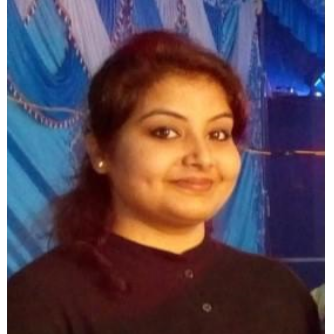
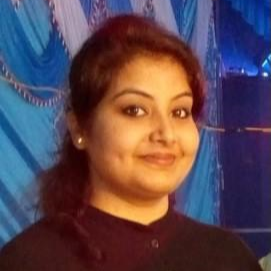
Updated: People page with new data

diff --git a/src/components/People.jsx b/src/components/People.jsx
@@ -2,11 +2,19 @@ import React, { useState } from "react";
 import { ChevronLeft, ChevronRight } from "react-feather";
 import piImg from '/images/People/Dr.-Rakesh-Kumar.png';
 
+// Lab Members Images
 import mem1 from '/images/People/Lab Members/Ms.-Minerva-Sharma.png';
 import mem2 from "/images/People/Lab Members/Mr.-Rajeshwer-S-Jamwal.png";
-import mem3 from "/images/People/Lab Members/Mr.-Bhawani-Sharma.png";
-import mem4 from "/images/People/Lab Members/Ms.-Pushpa-Oraon.png";
+import mem3 from "/images/People/Lab Members/Mr.-Bhawani-Sharma.jpeg";
+import mem4 from "/images/People/Lab Members/Ms.-Agamya.jpeg";
+import mem5 from "/images/People/Lab Members/Swati-Misri.jpeg";
+import mem6 from "/images/People/Lab Members/Ms.-Sheen-Bhat.jpeg";
+import mem7 from "/images/People/Lab Members/Ms.-Arushi-Gupta.jpeg";
+import mem8 from "/images/People/Lab Members/Mr.-Jagdeep-Singh.jpeg";
+import mem9 from "/images/People/Lab Members/Vitasta-Kuchroo.jpeg";
+import mem10 from "/images/People/Lab Members/Ms.-Pushpa-Oraon.jpeg";
 
+// Alumni Images
 import alm1 from "/images/People/Alumni/Dr. Ashna Nagpal.png";
 import alm2 from "/images/People/Alumni/Dr. Sonali Verma.png";
 import alm3 from "/images/People/Alumni/Dr. GR Bhat.png";
@@ -23,19 +31,106 @@ export function People() {
     const [isPiVisible, setIsPiVisible] = useState(false);
 
     const members = [
-        { name: "Ms. Minerva Sharma", image: mem1, labStatus: "Research Scholar", academicQualification: "Ph.D. Ongoing", description: "I am Minerva, a researcher with a strong academic background in Biotechnology, holding both graduate and postgraduate degrees in the field. Currently, I am pursuing a Ph.D. in Cancer Genetics, with my research focusing on the genetic mechanisms of ovarian cancer. My passion lies in understanding how these mechanisms drive cancer progression and finding ways to translate this knowledge into therapeutic advancements. Beyond my work, I am a nature lover who finds joy in traveling, exploring new places, and immersing myself in different cultures. I enjoy observing people and learning about their traditions, which inspires me and enriches my perspective on life. Balancing my academic pursuits with these personal interests keeps me grounded and fuels my curiosity.\n" },
-        { name: "Mr. Rajeshwer S Jamwal", image: mem2, labStatus: "Senior Research Fellow-CSIR", academicQualification: "Ph.D. Ongoing", description: "I completed my Bachelor’s in Biotechnology from University of Jammu and my Master’s in Science in Biotechnology, specializing in Genetics, from Shri Mata Vaishno Devi University, India. Currently, I am pursuing my Ph.D. at SMVDU as a Senior Research Fellow under CSIR, focusing on the role of DNA damage-associated genes in non-small cell lung cancer. My work combines advanced molecular biology techniques and bioinformatics to understand genetic predispositions and cancer mechanisms.\n Additionally, I have a deep passion for riding bikes and exploring new destinations, which not only fuels my adventurous spirit but also inspires my curiosity about the world around me. Whether it's navigating winding mountain trails or discovering hidden cultural gems, these experiences provide fresh perspectives that often influence my approach towards Life and  Research." },
-        { name: "Mr. Bhawani Sharma", image: mem3, labStatus: "Research Scholar", academicQualification: "Ph.D. Ongoing", description: "Driven by a curiosity for the complexities of human genetics, I have pursued a dedicated academic journey. After completing my schooling and undergraduate studies in Jammu and earning a master’s degree in Biotechnology from SMVDU, I am now engaged in PhD research at SMVDU. My work delves into the genetic basis of male infertility, focusing on Y chromosome microdeletions, mitochondrial alterations, and genetic mutations. By combining advanced genomic tools with community health initiatives, I aim to contribute to both scientific understanding and impactful health solutions. Originally from the picturesque Rajouri district, I value traveling and exploring new experiences as sources of inspiration. Outside of research, I enjoy connecting with diverse perspectives, enriching my outlook on life and science.\n" },
-        { name: "Ms. Pushpa Oraon", image: mem4, labStatus: "Research Scholar", academicQualification: "Ph.D. Ongoing", description: "I am  passionate educator committed to shaping the future of nursing. Alongside my academic role, I am currently pursuing a part-time Ph.D., which allows me to balance my teaching responsibilities with my dedication to research and professional growth. With years of experience in nursing education, I strive to inspire and guide my students by combining theoretical knowledge with practical applications.\n My doctoral research focuses on addressing critical challenges in healthcare, with the aim of contributing to evidence-based practices that improve patient outcomes and elevate the standards of nursing education. Balancing my dual roles as an educator and a researcher has been both challenging and rewarding, fuelling my passion for lifelong learning. I actively participate in academic collaborations, workshops, and conferences to stay updated and share insights with the wider community." }
+        { 
+            name: "Ms. Minerva Sharma", 
+            image: mem1, 
+            labStatus: "Research Scholar", 
+            academicQualification: "Ph.D. Submitted", 
+            description: "I am Minerva, a researcher with a strong academic background in Biotechnology, holding both graduate and postgraduate degrees in the field. Currently, I am pursuing a Ph.D. in Cancer Genetics, with my research focusing on the genetic mechanisms of ovarian cancer. My passion lies in understanding how these mechanisms drive cancer progression and finding ways to translate this knowledge into therapeutic advancements. Beyond my work, I am a nature lover who finds joy in traveling, exploring new places, and immersing myself in different cultures. I enjoy observing people and learning about their traditions, which inspires me and enriches my perspective on life. Balancing my academic pursuits with these personal interests keeps me grounded and fuels my curiosity.", 
+            cvLink: "#", 
+            scholarLink: "#" 
+        },
+        { 
+            name: "Mr. Rajeshwer S Jamwal", 
+            image: mem2, 
+            labStatus: "Senior Research Fellow-CSIR", 
+            academicQualification: "Ph.D. Ongoing", 
+            description: "I completed my Bachelor’s in Biotechnology from University of Jammu and my Master’s in Science in Biotechnology, specializing in Genetics, from Shri Mata Vaishno Devi University, India. Currently, I am pursuing my Ph.D. at SMVDU as a Senior Research Fellow under CSIR, focusing on the role of DNA damage-associated genes in non-small cell lung cancer. My work combines advanced molecular biology techniques and bioinformatics to understand genetic predispositions and cancer mechanisms.\n Additionally, I have a deep passion for riding bikes and exploring new destinations, which not only fuels my adventurous spirit but also inspires my curiosity about the world around me. Whether it's navigating winding mountain trails or discovering hidden cultural gems, these experiences provide fresh perspectives that often influence my approach towards Life and Research.", 
+            cvLink: "#", 
+            scholarLink: "#" 
+        },
+        { 
+            name: "Mr. Bhawani Sharma", 
+            image: mem3, 
+            labStatus: "Research Scholar", 
+            academicQualification: "Ph.D. Ongoing", 
+            description: "Driven by a curiosity for the complexities of human genetics, I have pursued a dedicated academic journey. After completing my schooling and undergraduate studies in Jammu and earning a master’s degree in Biotechnology from SMVDU, I am now engaged in PhD research at SMVDU. My work delves into the genetic basis of male infertility, focusing on Y chromosome microdeletions, mitochondrial alterations, and genetic mutations. By combining advanced genomic tools with community health initiatives, I aim to contribute to both scientific understanding and impactful health solutions. Originally from the picturesque Rajouri district, I value traveling and exploring new experiences as sources of inspiration. Outside of research, I enjoy connecting with diverse perspectives, enriching my outlook on life and science.", 
+            cvLink: "#", 
+            scholarLink: "#" 
+        },
+        { 
+            name: "Ms. Agamya", 
+            image: mem4, 
+            labStatus: "Research Scholar", 
+            academicQualification: "Ph.D. Ongoing", 
+            description: "I am Agamya, a researcher driven by curiosity about how life at the microscopic level shapes health and disease. My journey began with a fascination for biology, which led me to earn a postgraduate degree in Zoology with distinction, followed by a deep dive into Biotechnology. My research journey has been shaped by diverse hands-on experiences across both molecular and behavioral biology. Currently, I am pursuing my Ph.D. in Biotechnology, particularly in Cancer Biology at Shri Mata Vaishno Devi University, where my research focuses on understanding how dietary nitrosamines and genetic factors contribute to colorectal cancer in the population of Jammu and Kashmir. Through this work, I aim to uncover the molecular links between lifestyle, environment, and cancer, with the hope of contributing to strategies for early detection and prevention. Beyond the world of cells and molecules, I am an avid nature lover and traveler. These experiences remind me that curiosity—whether in the lab or in life—is the key to discovery.", 
+            cvLink: "#", 
+            scholarLink: "#" 
+        },
+        { 
+            name: "Ms. Swati Misri", 
+            image: mem5, 
+            labStatus: "Research Scholar", 
+            academicQualification: "Ph.D. Ongoing", 
+            description: "A Researcher whose career is defined by curiosity, perseverance, and a deep commitment to advancing the fields of molecular biology and genomics. Ever since receiving my Bsc. from Gharwal university and Msc from Central University of Kerala I have been interested in pursuing my curiosities. Since 2018, I have made significant contributions at Dr. Ganju Lab (OSU), leading pivotal research on microRNA expression, drug resistance in cancer, and tumor micro-environment mechanisms. I have joined Dr. Rakesh Kumar as a PhD scholar in 2025. My focus of research is on lung cancer drug resistance and molecular pathways involved in drug resistance. Apart from being a researcher I love dancing my heart out and exploring new places. Exploring new places and cultures helps me refresh my mind and thoughts.", 
+            cvLink: "#", 
+            scholarLink: "https://scholar.google.com/citations?user=mktchc8AAAAJ&hl=en&oi=ao" 
+        },
+        { 
+            name: "Ms. Sheen Bhat", 
+            image: mem6, 
+            labStatus: "Research Scholar", 
+            academicQualification: "Ph.D. Ongoing", 
+            description: "I completed my Bachelor’s degree in Botany from Miranda House, University of Delhi, followed by a Master’s in Life Sciences from the Central University of Gujarat. During my master’s dissertation, I explored the field of nanotechnology-based drug delivery, focusing on the synthesis of a hybrid system combining monocyte membranes and liposomes for targeted cancer therapy, exploring its potential for enhanced drug delivery and bio-compatibility. Currently, I am pursuing my Ph.D. at the Centre for Human Genomics, Shri Mata Vaishno Devi University, where my research is focused on cancer genetics, aiming to understand the molecular and genetic mechanisms underlying cancer progression. Joint PhD scholar.", 
+            cvLink: "#", 
+            scholarLink: "#" 
+        },
+        { 
+            name: "Ms. Arushi Gupta", 
+            image: mem7, 
+            labStatus: "Research Scholar", 
+            academicQualification: "Ph.D. Ongoing", 
+            description: "I hold a Bachelor of Science degree from Government College for Women, Parade, Jammu, followed by a Master’s in Human Genetics from the University of Jammu. During my postgraduate studies, I developed a deep interest in genetic research, which inspired me to pursue a PhD in Biotechnology at Shri Mata Vaishno Devi University. My doctoral research focuses on the genetics of female infertility, with the aim of identifying key genetic factors and molecular mechanisms that contribute to reproductive challenges in women. Through this work, I hope to contribute to the understanding of infertility from a genetic perspective. Outside of my academic interests, I enjoy traveling and experiencing diverse cultures, which has enriched my perspective and adaptability. I’m particularly interested in historical sites and natural landscapes.", 
+            cvLink: "#", 
+            scholarLink: "#" 
+        },
+        { 
+            name: "Mr. Jagdeep Singh", 
+            image: mem8, 
+            labStatus: "Research Scholar", 
+            academicQualification: "Ph.D. Ongoing", 
+            description: "I have done my masters in zoology and currently I am researching on various genetic and non-genetic factors and their association with prostate cancer development. I aim to identify the various genetic factors of prostate cancer and the link between non-genetic factors in the Jammu & Kashmir population. Earlier a teacher by profession, research is a field that inspires a sense of enthusiasm and new learning opportunities. I follow the philosophy of Bhagavad Gita which states- In fact all actions are being performed by the modes of Prakruti (Primordial Nature). The fool, whose mind is deluded by egoism, thinks: “I am the doer.”", 
+            cvLink: "#", 
+            scholarLink: "#" 
+        },
+        { 
+            name: "Ms. Vitasta Kuchroo", 
+            image: mem9, 
+            labStatus: "Research Scholar", 
+            academicQualification: "Ph.D. Ongoing", 
+            description: "Bachelors: (BSc Biotechnology) Shri Mata Vaishno Devi University\nMasters: (MSc Biotechnology) Shri Mata Vaishno Devi university\nIn my masters I, studied the effects of natural and synthetic drugs on senescent cells. Project Description: Cancer Genetics focusing on genetic mechanism of Gastric cancer and further looking for therapeutic advancements. Beside working as a researcher, I enjoy exploring different cuisines and seeking out new adventures.", 
+            cvLink: "#", 
+            scholarLink: "#" 
+        },
+        { 
+            name: "Ms. Pushpa Oraon", 
+            image: mem10, 
+            labStatus: "Research Scholar", 
+            academicQualification: "Ph.D. Ongoing", 
+            description: "I am passionate educator committed to shaping the future of nursing. Alongside my academic role, I am currently pursuing a part-time Ph.D., which allows me to balance my teaching responsibilities with my dedication to research and professional growth. With years of experience in nursing education, I strive to inspire and guide my students by combining theoretical knowledge with practical applications.\n My doctoral research focuses on addressing critical challenges in healthcare, with the aim of contributing to evidence-based practices that improve patient outcomes and elevate the standards of nursing education. Balancing my dual roles as an educator and a researcher has been both challenging and rewarding, fuelling my passion for lifelong learning. I actively participate in academic collaborations, workshops, and conferences to stay updated and share insights with the wider community.", 
+            cvLink: "#", 
+            scholarLink: "#" 
+        }
     ];
 
+    // Added generic descriptions for Alumni to populate the modal
     const alumni = [
-        { name: "Dr. Ashna Nagpal", image: alm1, description: "Awarded" },
-        { name: "Dr. Sonali Verma", image: alm2, description: "Awarded" },
-        { name: "Dr. GR Bhat", image: alm3, description: "Awarded" },
-        { name: "Dr. Amrita Bhat", image: alm4, description: "Awarded" },
-        { name: "Dr. Divya Bakshi", image: alm5, description: "Awarded" },
-        { name: "Dr. Bhanu Sharma", image: alm6, description: "Awarded" }
+        { name: "Dr. Ashna Nagpal", image: alm1, labStatus: "Research Alumni", academicQualification: "Ph.D. Awarded", description: "Dr. Ashna Nagpal is a valued alumnus of our laboratory. She successfully completed her Ph.D. research under the guidance of Dr. Rakesh Kumar and has since moved on to contribute further to the scientific community." },
+        { name: "Dr. Sonali Verma", image: alm2, labStatus: "Research Alumni", academicQualification: "Ph.D. Awarded", description: "Dr. Sonali Verma is a valued alumnus of our laboratory. She successfully completed her Ph.D. research under the guidance of Dr. Rakesh Kumar and has since moved on to contribute further to the scientific community." },
+        { name: "Dr. GR Bhat", image: alm3, labStatus: "Research Alumni", academicQualification: "Ph.D. Awarded", description: "Dr. GR Bhat is a valued alumnus of our laboratory. He successfully completed his Ph.D. research under the guidance of Dr. Rakesh Kumar and has since moved on to contribute further to the scientific community." },
+        { name: "Dr. Amrita Bhat", image: alm4, labStatus: "Research Alumni", academicQualification: "Ph.D. Awarded", description: "Dr. Amrita Bhat is a valued alumnus of our laboratory. She successfully completed her Ph.D. research under the guidance of Dr. Rakesh Kumar and has since moved on to contribute further to the scientific community." },
+        { name: "Dr. Divya Bakshi", image: alm5, labStatus: "Research Alumni", academicQualification: "Ph.D. Awarded", description: "Dr. Divya Bakshi is a valued alumnus of our laboratory. She successfully completed her Ph.D. research under the guidance of Dr. Rakesh Kumar and has since moved on to contribute further to the scientific community." },
+        { name: "Dr. Bhanu Sharma", image: alm6, labStatus: "Research Alumni", academicQualification: "Ph.D. Awarded", description: "Dr. Bhanu Sharma is a valued alumnus of our laboratory. She successfully completed her Ph.D. research under the guidance of Dr. Rakesh Kumar and has since moved on to contribute further to the scientific community." }
     ];
 
     const openModal = (index, source) => {
@@ -73,7 +168,15 @@ export function People() {
                     <div className="w-full">
                         <div className="relative flex-col items-center justify-between">
                             <h3 className="text-4xl text-[#000f3a] font-bold">Dr. Rakesh Kumar</h3>
-                            <h4 className="text-3xl text-[#003865] font-semibold">Associate Professor, SMVDU</h4>
+                            <h4 className="text-3xl text-[#003865] font-semibold">Assistant Professor, SMVDU</h4>
+                            <div className="flex gap-4 mt-4">
+                                <a href="/people" target="_blank" rel="noopener noreferrer" className="inline-block bg-[#003865] text-white px-4 py-2 rounded-md font-semibold text-sm hover:bg-[#000f3a] transition-colors">
+                                    View CV
+                                </a>
+                                <a href="/people" target="_blank" rel="noopener noreferrer" className="inline-block bg-[#f0f0f0] text-[#003865] border border-gray-300 px-4 py-2 rounded-md font-semibold text-sm hover:bg-gray-300 transition-colors">
+                                    Google Scholar
+                                </a>
+                            </div>
                         </div>
                         {isPiVisible && (
                             <p className="mt-4 text-gray-700 text-xl leading-relaxed sm:text-justify">
@@ -116,12 +219,13 @@ export function People() {
                     <div id="alumni-list" className="grid grid-cols-2 sm:grid-cols-3 md:grid-cols-4 gap-6">
                         {alumni.map((alum, alumIndex) => (
                             <div key={alumIndex} className="flex flex-col bg-gray-100 rounded-lg shadow-md overflow-hidden aspect-[3/4] transform transition-all duration-300 ease-in-out hover:scale-105 hover:shadow-xl cursor-pointer" onClick={() => openModal(alumIndex, 'alumni')}>
-                                <div className="flex-1 relative min-h-0">
-                                    <img src={alum.image} alt={alum.name} loading="lazy" className="absolute w-full h-full object-cover"/>
+                                <div className="flex-1 flex items-center justify-center p-4 min-h-0">
+                                    <img src={alum.image} alt={alum.name} loading="lazy" className="w-full aspect-square object-cover border-1 border-gray-300 rounded-full shadow-md"/>
                                 </div>
-                                <div className="p-3 text-center">
-                                    <h3 className="text-[#000f3a] md:text-xl font-semibold truncate" title={alum.name}>{alum.name}</h3>
-                                    <h4 className="text-sm text-[#003865] md:text-lg font-medium truncate" title={alum.description}>{alum.description}</h4>
+                                <div className="p-3 text-center border-t border-gray-200">
+                                    <h3 className="font-semibold text-[#000f3a] md:text-xl truncate" title={alum.name}>{alum.name}</h3>
+                                    <h4 className="text-sm text-[#003865] md:text-base font-medium truncate" title={alum.labStatus}>{alum.labStatus}</h4>
+                                    <h4 className="text-sm text-gray-800 md:text-base truncate" title={alum.academicQualification}>{alum.academicQualification}</h4>
                                 </div>
                             </div> 
                         ))}
@@ -145,6 +249,18 @@ export function People() {
                             </div>
                             <div className="text-center mt-4">
                                 <h3 className="text-2xl font-semibold mb-2">{currentItem.name}</h3>
+                                <div className="flex justify-center gap-3 my-3">
+                                    {currentItem.cvLink && currentItem.cvLink !== "#" && (
+                                        <a href={currentItem.cvLink} target="_blank" rel="noopener noreferrer" className="inline-block bg-white text-black px-3 py-1 rounded-md font-semibold text-xs hover:bg-gray-200 transition-colors">
+                                            View CV
+                                        </a>
+                                    )}
+                                    {currentItem.scholarLink && currentItem.scholarLink !== "#" && (
+                                        <a href={currentItem.scholarLink} target="_blank" rel="noopener noreferrer" className="inline-block bg-white text-black px-3 py-1 rounded-md font-semibold text-xs hover:bg-gray-200 transition-colors">
+                                            Google Scholar
+                                        </a>
+                                    )}
+                                </div>
                                 <p className="text-gray-200 whitespace-pre-line text-justify p-2 text-sm">{currentItem.description}</p>
                             </div>
                         </div>
@@ -165,8 +281,20 @@ export function People() {
                                 </button>
                             </div>
                             <div className="mt-4 text-center">
-                                <h3 className="text-3xl font-bold mb-2">{currentItem.name}</h3>
-                                <p className="text-gray-100 max-w-3xl whitespace-pre-line text-justify p-4 text-lg mx-auto">{currentItem.description}</p> 
+                                <h3 className="text-3xl font-bold">{currentItem.name}</h3>
+                                <div className="flex justify-center gap-4 my-2">
+                                    {currentItem.cvLink && currentItem.cvLink !== "#" && (
+                                        <a href={currentItem.cvLink} target="_blank" rel="noopener noreferrer" className="inline-block bg-white text-black px-4 py-2 rounded-md font-semibold text-sm hover:bg-gray-200 transition-colors">
+                                            View CV
+                                        </a>
+                                    )}
+                                    {currentItem.scholarLink && currentItem.scholarLink !== "#" && (
+                                        <a href={currentItem.scholarLink} target="_blank" rel="noopener noreferrer" className="inline-block bg-white text-black px-4 py-2 rounded-md font-semibold text-sm hover:bg-gray-200 transition-colors">
+                                            Google Scholar
+                                        </a>
+                                    )}
+                                </div>
+                                <p className="text-gray-100 max-w-3xl whitespace-pre-line text-justify text-lg mx-auto">{currentItem.description}</p> 
                             </div>  
                         </div>
                     </div>
